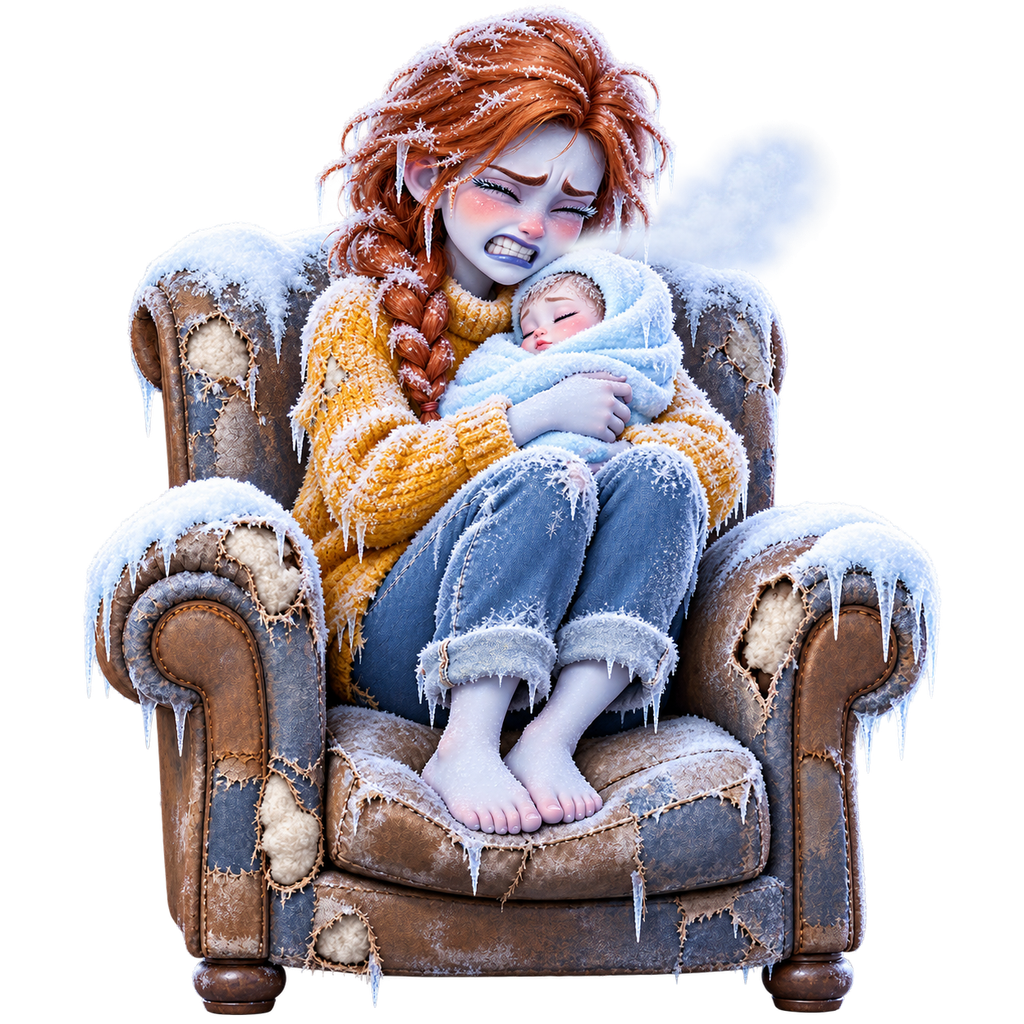
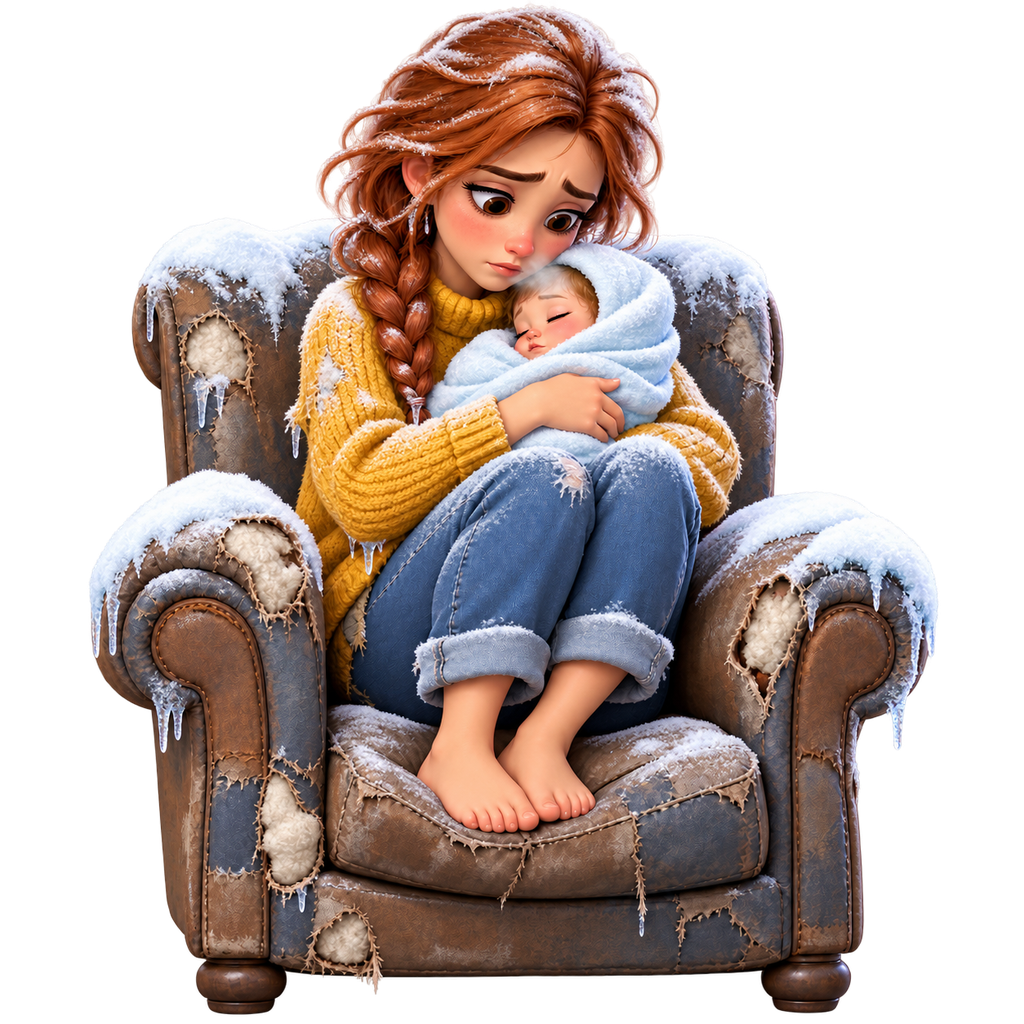
intro: heroine lies in the snow (no flying sprite), GET OUT shout; gentler freeze visuals

diff --git a/live/scene.js b/live/scene.js
@@ -62,13 +62,17 @@
       L.glow((dl + dr) / 2 + OX, (dt + db) / 2 + OY, 700 * (0.35 + 0.65 * open), [1, 0.8, 0.4], 0.5 * open, 2.2);              // warm light that dies with the door
       L.glow((dl + dr) / 2 + OX, db + 60 + OY, 480 * open, [1, 0.75, 0.35], 0.4 * open, 2.4);
       if (has('door')) L.sprite('door', 0, 0, { m: M.of(M.t(dl + OX, db + OY), M.s(sx, 1)), w: dw, h: dh, pivot: [0, dh] });
-      const u = ease(clamp(GT / 0.9, 0, 1)), hb = db + (H * 0.80 - db) * u - 70 * Math.sin(Math.PI * u);                // she is thrown out and slides onto the snow
-      const hxs = (dl + dr) / 2 + (W * 0.40 - (dl + dr) / 2) * u; L.shadow(hxs + OX, hb - 4 + OY, 400, 44, 0.42 * SS(0, 0.15, GT)); hero('hero_snow', hxs, hb, SS(0, 0.15, GT));
+      // she is already lying in the snow from the first frame (a sliding still image looked fake); the door slams over her, she recoils a little
+      const hxs = W * 0.40 + 1.5 * Math.sin(GT * 31) * SS(0.8, 1.2, GT), rc = clamp((GT - 0.7) / 0.35, 0, 1), hb = H * 0.80 + 9 * Math.sin(Math.PI * rc) * (1 - rc);
+      L.shadow(hxs + OX, hb - 4 + OY, 400, 44, 0.42); hero('hero_snow', hxs + OX * 0.4, hb, 1);          // there from the very first frame
+      for (let j = 0; j < 7; j++) { const q = clamp((GT - 0.7 - j * 0.02) / 0.7, 0, 1); if (q > 0 && q < 1) L.puff(hxs + (j - 3) * 85 + OX, hb - 30 - 70 * q, 26 + 46 * q, [1, 1, 1], 0.5 * (1 - q), j + 100); }   // snow kicked up by the thud
+      { const sq = clamp((GT - 0.12) / 0.22, 0, 1), fade = 1 - SS(1.0, 1.5, GT);                                                   // the shout from the doorway
+        if (sq > 0 && fade > 0.01) L.label('shout', 'GET OUT!', W * 0.30 + 8 * Math.sin(GT * 55) * (GT < 0.8 ? 1 : 0) + OX, dt + 150 + OY, { size: Math.round(104 * popk(sq)), font: FONT, col: '#ffe14a', out: '#7a1500', al: 0.5, a: fade }); }
       for (let i = 0; i < 16; i++) { const x = ((rnd(i, 9) * 1.5 * W - GT * 1100 * (0.6 + rnd(i, 8))) % (1.5 * W) + 1.5 * W) % (1.5 * W) - 0.2 * W;
         L.solid(x, rnd(i, 7) * H, 140 * (0.5 + rnd(i, 6)), 3, [1, 1, 1], -0.12, 0, 0, 0.3); }       // blizzard streaks
     } else {                                                                     // shot B: the shelter
       cover('bg_room');
-      const sad = reveal && choice !== 'window' ? 1 - SS(0.5, 1.1, rt) : 1, cx = HERO[0] + (reveal && win ? 0 : (3 + 6 * fz) * Math.sin(GT * (38 + 30 * fz))), bot = HERO[1];
+      const sad = reveal && choice !== 'window' ? 1 - SS(0.5, 1.1, rt) : 1, cx = HERO[0] + (reveal && win ? 0 : 3 * Math.sin(GT * 38)), bot = HERO[1];
       L.shadow(cx + OX, bot - 10 + OY, 340, 48, 0.55 * heroA);                   // contact shadow: the chair stands on the floor
       hero('hero_sad', cx, bot, sad * heroA);
       if (fz > 0.02) hero('hero_frozen', cx, bot, SS(0.25, 1, fz) * heroA);                    // ice creeps over her while nobody touches the screen
@@ -82,7 +86,7 @@
     }
     for (let i = 0; i < (bq > 0.9 ? 10 : 36); i++) { const drift = shelter ? 40 : 160, x = (rnd(i, 1) * W + drift * Math.sin(GT * 0.8 + i) + (shelter ? 0 : GT * 160 * rnd(i, 2))) % W, y = (GT * 130 * (0.5 + rnd(i, 2)) + rnd(i, 3) * H) % H;
       L.puff(x, y, 6 + 6 * rnd(i, 4), [1, 1, 1], 0.5 * (1 - 0.9 * (1 - snowOn)), i); }
-    L.solid(0, 0, W, H, [0.05, 0.1, 0.3], 0, 0, 0, 0.16 * (1 - wg) + 0.22 * fz);          // the room stays cold; only a repaired window warms it a little
+    L.solid(0, 0, W, H, [0.05, 0.1, 0.3], 0, 0, 0, 0.16 * (1 - wg) + 0.07 * fz);          // the room stays cold; only a repaired window warms it a little
     L.solid(0, 0, W, H, [1.0, 0.65, 0.25], 0, 0, 0, 0.16 * wg);
     if (ST.cut > 0.01 && GT - ST.cut < 0.3) L.solid(0, 0, W, H, [1, 1, 1], 0, 0, 0, 0.95 * (1 - (GT - ST.cut) / 0.3));   // whip flash on the cut
     if (reveal) { const wp = imgPt('bg_room', Z.winAt[0], Z.winAt[1]); if (win) L.glow(wp[0], wp[1], 700, [1, 0.8, 0.45], 0.5 * warm, 2.2); else L.glow(HERO[0], choice === 'comb' ? HERO[1] - 640 : HERO[1] - 400, 520, [1, 0.8, 0.5], 0.35 * Math.sin(Math.PI * Math.min(1, rt / 2.4)), 2.2);   // light only where the change happened

diff --git a/live/assets.js b/live/assets.js
@@ -1,1 +1,1 @@
-window.ASSETS = {"bg_outside": {"w": 1024, "h": 1536, "crop": [0, 0, 1024, 1536], "scale": 1.0}, "bg_room": {"w": 1024, "h": 1536, "crop": [0, 0, 1024, 1536], "scale": 1.0}, "door": {"w": 737, "h": 1503, "crop": [141, 6, 878, 1509], "scale": 1.0}, "frost_frame": {"w": 1024, "h": 1536, "crop": [0, 0, 1024, 1536], "scale": 1.0}, "hand": {"w": 660, "h": 1446, "crop": [190, 2, 850, 1448], "scale": 1.0}, "hero_comb": {"w": 856, "h": 1008, "crop": [85, 10, 941, 1018], "scale": 1.0}, "hero_comb_smile": {"w": 858, "h": 1010, "crop": [84, 9, 942, 1019], "scale": 1.0}, "hero_dress": {"w": 856, "h": 1018, "crop": [85, 1, 941, 1019], "scale": 1.0}, "hero_dress_smile": {"w": 857, "h": 1019, "crop": [84, 0, 941, 1019], "scale": 1.0}, "hero_frozen": {"w": 867, "h": 1019, "crop": [79, 0, 946, 1019], "scale": 1.0}, "hero_sad": {"w": 855, "h": 1015, "crop": [85, 3, 940, 1018], "scale": 1.0}, "hero_sad_smile": {"w": 856, "h": 1019, "crop": [85, 0, 941, 1019], "scale": 1.0}, "hero_snow": {"w": 1479, "h": 915, "crop": [44, 35, 1523, 950], "scale": 1.0}, "tile_coin": {"w": 364, "h": 379, "crop": [2, 2, 366, 381], "scale": 1.0}, "tile_comb": {"w": 304, "h": 405, "crop": [2, 2, 306, 407], "scale": 1.0}, "tile_dress": {"w": 415, "h": 392, "crop": [2, 2, 417, 394], "scale": 1.0}, "tile_leaf": {"w": 368, "h": 391, "crop": [2, 2, 370, 393], "scale": 1.0}, "tile_window": {"w": 340, "h": 392, "crop": [2, 2, 342, 394], "scale": 1.0}, "tile_yarn": {"w": 435, "h": 371, "crop": [2, 2, 437, 373], "scale": 1.0}, "window_patch": {"w": 1024, "h": 1024, "crop": [0, 0, 1024, 1024], "scale": 1.0}};
+window.ASSETS = {"bg_outside": {"w": 1024, "h": 1536, "crop": [0, 0, 1024, 1536], "scale": 1.0}, "bg_room": {"w": 1024, "h": 1536, "crop": [0, 0, 1024, 1536], "scale": 1.0}, "door": {"w": 737, "h": 1503, "crop": [141, 6, 878, 1509], "scale": 1.0}, "frost_frame": {"w": 1024, "h": 1536, "crop": [0, 0, 1024, 1536], "scale": 1.0}, "hand": {"w": 660, "h": 1446, "crop": [190, 2, 850, 1448], "scale": 1.0}, "hero_comb": {"w": 856, "h": 1008, "crop": [85, 10, 941, 1018], "scale": 1.0}, "hero_comb_smile": {"w": 858, "h": 1010, "crop": [84, 9, 942, 1019], "scale": 1.0}, "hero_dress": {"w": 856, "h": 1018, "crop": [85, 1, 941, 1019], "scale": 1.0}, "hero_dress_smile": {"w": 857, "h": 1019, "crop": [84, 0, 941, 1019], "scale": 1.0}, "hero_frozen": {"w": 858, "h": 1019, "crop": [85, 0, 943, 1019], "scale": 1.0}, "hero_sad": {"w": 855, "h": 1015, "crop": [85, 3, 940, 1018], "scale": 1.0}, "hero_sad_smile": {"w": 856, "h": 1019, "crop": [85, 0, 941, 1019], "scale": 1.0}, "hero_snow": {"w": 1479, "h": 915, "crop": [44, 35, 1523, 950], "scale": 1.0}, "tile_coin": {"w": 364, "h": 379, "crop": [2, 2, 366, 381], "scale": 1.0}, "tile_comb": {"w": 304, "h": 405, "crop": [2, 2, 306, 407], "scale": 1.0}, "tile_dress": {"w": 415, "h": 392, "crop": [2, 2, 417, 394], "scale": 1.0}, "tile_leaf": {"w": 368, "h": 391, "crop": [2, 2, 370, 393], "scale": 1.0}, "tile_window": {"w": 340, "h": 392, "crop": [2, 2, 342, 394], "scale": 1.0}, "tile_yarn": {"w": 435, "h": 371, "crop": [2, 2, 437, 373], "scale": 1.0}, "window_patch": {"w": 1024, "h": 1024, "crop": [0, 0, 1024, 1024], "scale": 1.0}};

diff --git a/live/audio.js b/live/audio.js
@@ -49,7 +49,7 @@
       for (const e of S.ev) { if (e.t <= last) continue; if (SFX[e.k]) SFX[e.k](now, e); }
       last = S.t;
       const cold = S.end < 0 && S.phase !== 'reveal' ? 1 : S.phase === 'reveal' ? (S.choice === 'window' ? Math.max(0, 1 - (S.t - S.phaseT) / 1.2) : 1) : 0;   // wind dies when the room warms up
-      wind.g.gain.setTargetAtTime(0.06 * cold * (0.7 + 0.3 * Math.sin(S.t * 0.9)) * (1 + 2.5 * (S.frost || 0)), now, 0.2); wind.f.frequency.setTargetAtTime(420 + 260 * Math.sin(S.t * 0.7), now, 0.3);
+      wind.g.gain.setTargetAtTime(0.06 * cold * (0.7 + 0.3 * Math.sin(S.t * 0.9)) * (1 + 1.0 * (S.frost || 0)), now, 0.2); wind.f.frequency.setTargetAtTime(420 + 260 * Math.sin(S.t * 0.7), now, 0.3);
     },
   };
 })();

diff --git a/study/PLAN.md b/study/PLAN.md
@@ -186,6 +186,13 @@ Code-drawn: bubbles, glow, padlock, board frame, goal panel, ribbon captions, li
   Passive viewer: chill 8.2 s, endcard 14.6 s. Variants auto_pick (old behaviour) and frost_fast (4 s / 5 s) added. 9 variants total.
 - Assets: hero_frozen (edit of hero_sad: frost only), frost_frame (transparent frost border, 640 px). Build 1.63 MB (Meta 2 MB limit ok).
 
+## Phase 5c (2026-10-09, user playtest feedback)
+- Intro shot A: the heroine no longer "flies" (a still image sliding looked fake). She lies in the snow from the very first frame; the door slams
+  over her (shake, light dies), she recoils a few px with a puff of snow, and a comic "GET OUT!" shout pops beside the doorway (0.12–1.5 s).
+- Freeze effect softened: no accelerating shake (constant shiver), no blue skin/grimace — hero_frozen regenerated as hero_sad + frost rime on
+  the hair tips, small icicles on the braid and chair, a cloud of breath; blue grade 0.22 → 0.07; wind boost 2.5 → 1.0. Frost frame at the
+  screen edges stays. Principle: pressure must not scare — cold, cosy-sad, never horror.
+
 - [ ] 6. PUBLISH — ASK THE USER FIRST: public repo `bankaino/snowbound-home-playable` + Pages from /docs
       (`python tools/build_playable.py --variant all --pages docs`). Never push study/ref or reference frames.
 
